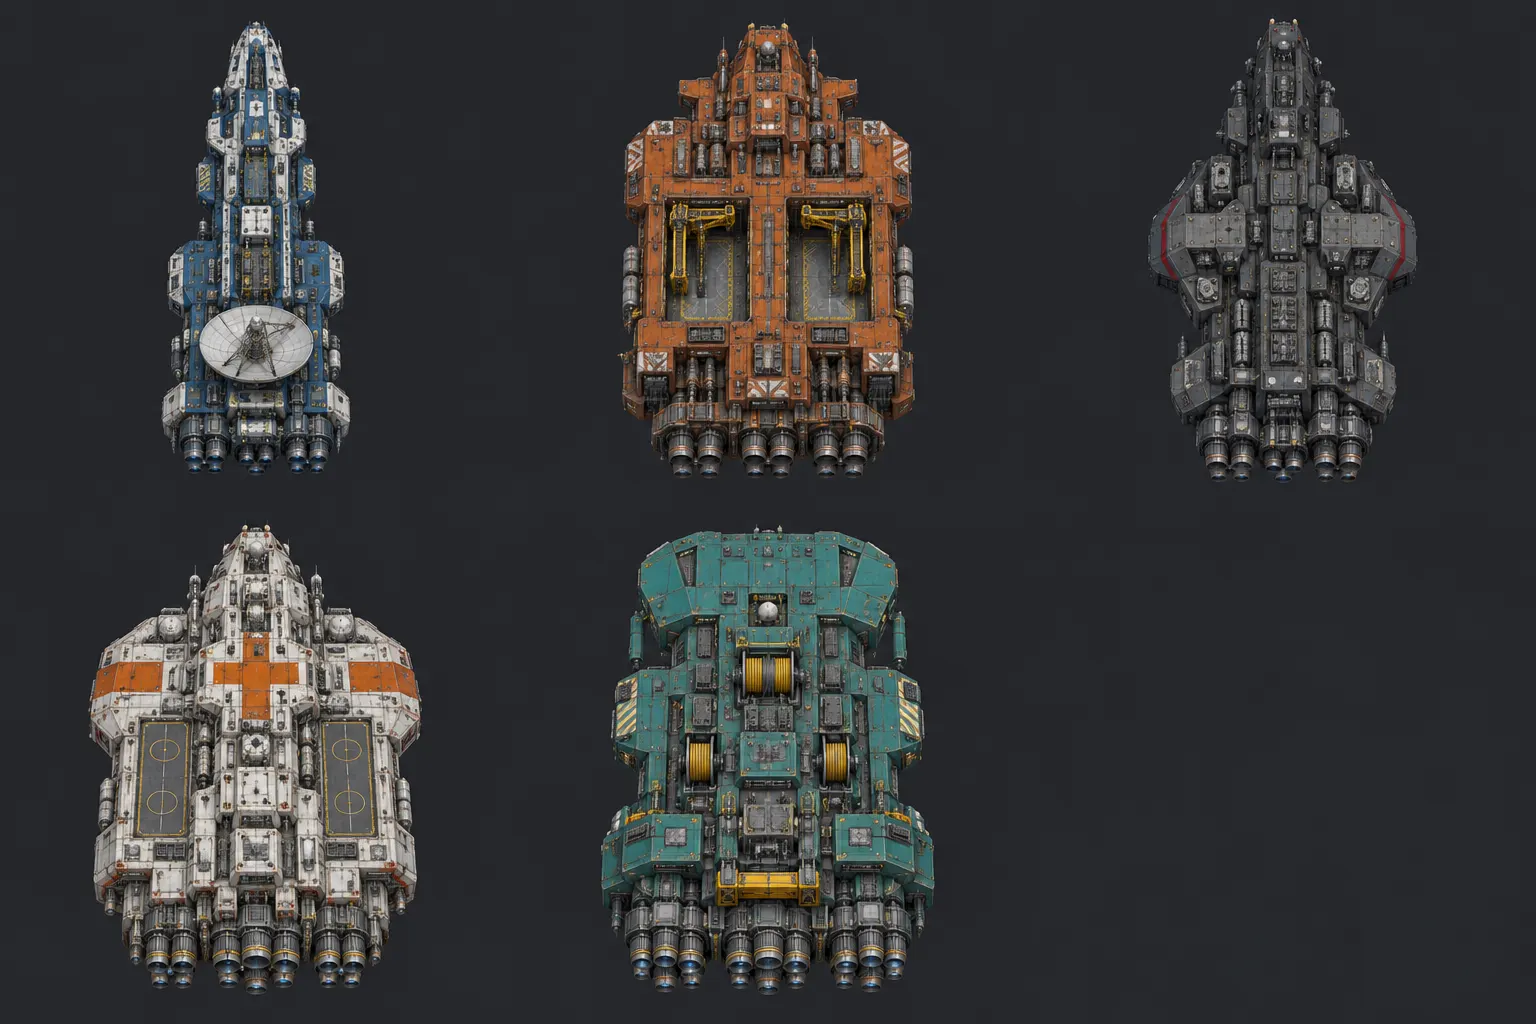
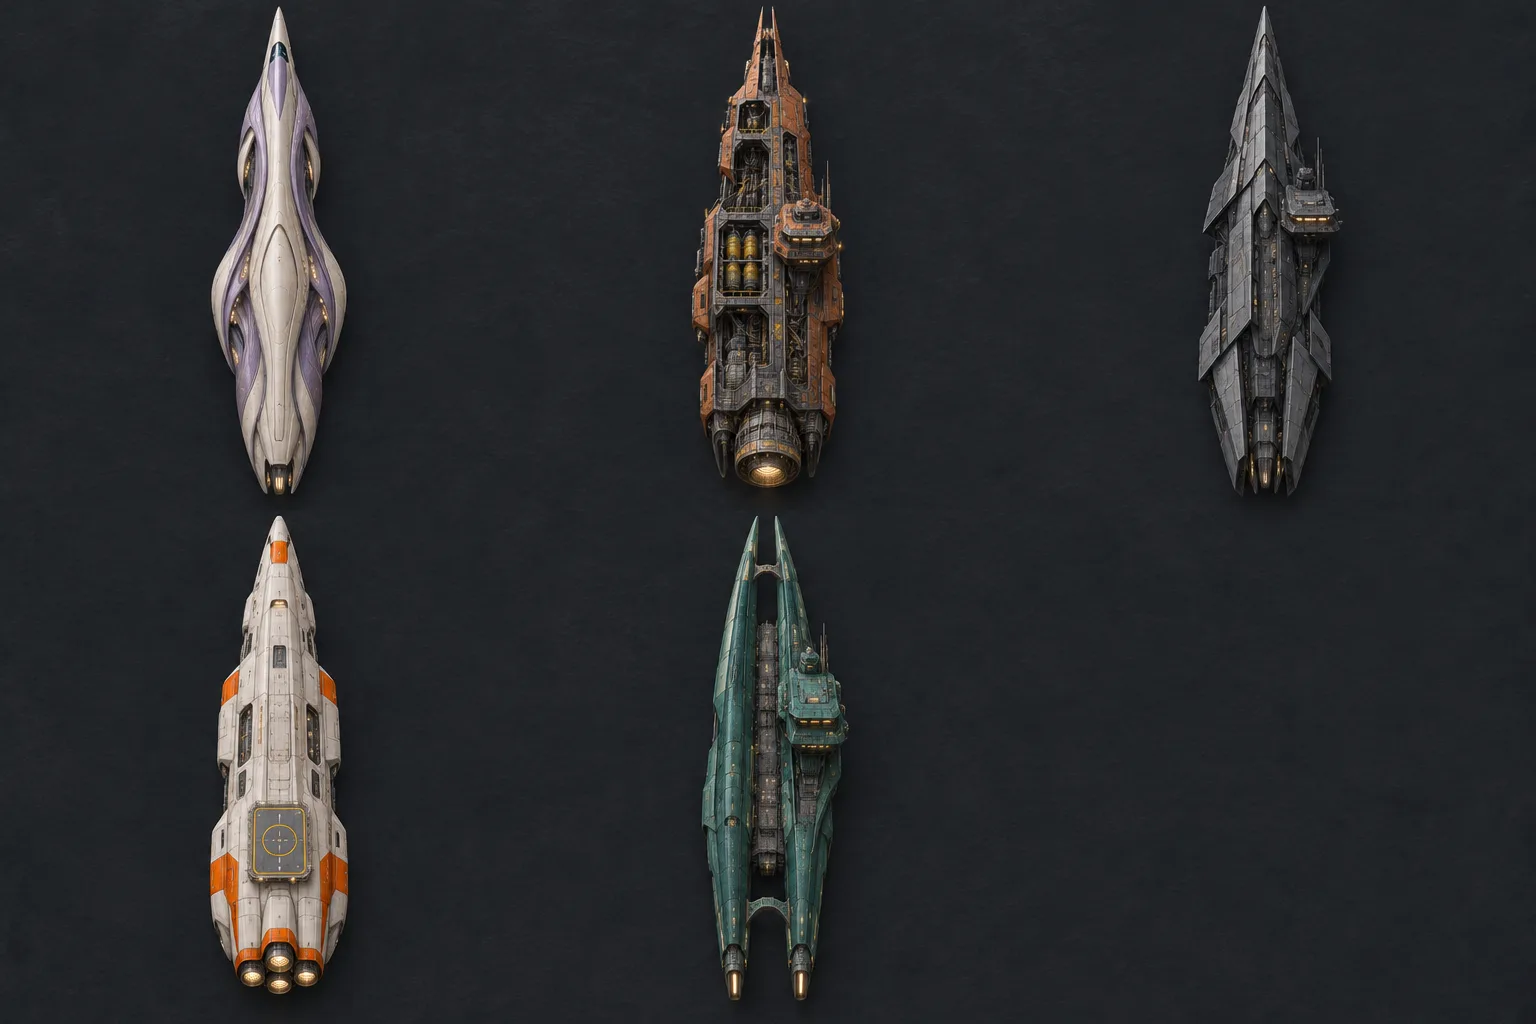
Replace gallery art with slimmer hulls and varied civilian finishes

Changed region(s): [[0.375, 0.0, 0.625, 0.9688], [0.0312, 0.0, 0.2812, 0.9688], [0.75, 0.0, 0.9375, 0.5]]

diff --git a/ship-preview-gallery.js b/ship-preview-gallery.js
@@ -2,7 +2,7 @@
 ((root)=>{
  const byClass=Object.freeze({
    freighters:Object.freeze([
-    ['Patrol Cutter','vessels',0,0],['Boarding Shuttle','vessels',1,0],['Wayfarer','vessels',2,0],
+    ['Patrol Cutter','vessels',0,0],['Courier Refit','vessels',1,0],['Wayfarer','vessels',2,0],
     ['Prospector','vessels',0,1],['Bulwark','vessels',1,1]
    ]),
    corvettes:Object.freeze([
@@ -23,9 +23,11 @@
  const createArt=(d,row)=>{
   const [name,sheet,col,band]=row,rows=sheet==='cruisers'?1:2;
   const svg=d.createElementNS(ns,'svg'),image=d.createElementNS(ns,'image');
-  svg.setAttribute('viewBox',[col*512,band*1024/rows,512,1024/rows].join(' '));
+  const divider=sheet==='vessels'?475:512;
+  const top=band===1?divider:0,height=rows===1?1024:band===1?1024-divider:divider;
+  svg.setAttribute('viewBox',[col*512,top,512,height].join(' '));
   svg.setAttribute('role','img');svg.setAttribute('aria-label','Top-down view of '+name);
-  image.setAttribute('href','./ship-preview-'+sheet+'.webp');
+  image.setAttribute('href','./ship-preview-'+sheet+'.webp?v=slim-1');
   image.setAttribute('width','1536');image.setAttribute('height','1024');
   image.setAttribute('preserveAspectRatio','none');svg.append(image);
   return svg;

diff --git a/carrier-shop.html b/carrier-shop.html
@@ -15,7 +15,7 @@
 <link rel="stylesheet" href="./carrier-shop.css?v=244">
 <script src="./pilot-credits.js?v=267" defer></script>
 <link rel="stylesheet" href="./ship-preview-gallery.css?v=1">
-<script src="./ship-preview-gallery.js?v=1" defer></script>
+<script src="./ship-preview-gallery.js?v=slim-1" defer></script>
 <script src="./carrier-shop-talk.js?v=gallery-1" defer></script>
 <script src="./sound-activation.js?v=1" defer></script>
 <script src="./carrier-shop-ambient.js?v=3" defer></script>

diff --git a/docs/SHIP-PREVIEW-ART.md b/docs/SHIP-PREVIEW-ART.md
@@ -1,0 +1,7 @@
+# Top-down catalogue art
+
+The ship pictures are selectable gallery previews. They do not grant ownership, create NPCs, or enable rentals, flight or interior views. The signed-off circular marketplace is a fixed station concept outside this catalogue.
+
+Visual direction: longer, slimmer hulls with small command bridges instead of fighter canopies. Use contrasting builders' styles: smooth civilian shells, exposed equipment on industrial workhorses, and obvious patches on repurposed pirate ships. Cruisers can show a stepped command deck or a smoother lower profile and centre spine. Class cards normalize framing for artwork inspection; they are not a scale chart and do not establish gameplay dimensions.
+
+References were used for broad design language, not copied assets: Damen Fast Crew Supplier, Naval Group Gowind proportions, and the smooth versus exposed structure contrast in Star Citizen. All gallery assets are original concepts with no Star Citizen ships or imagery in the game files.
